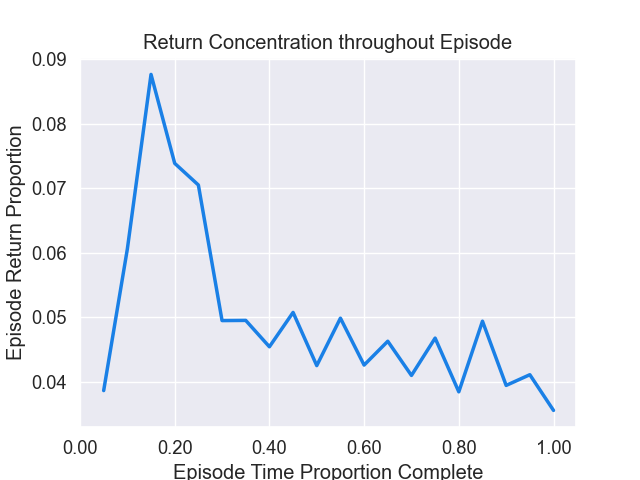
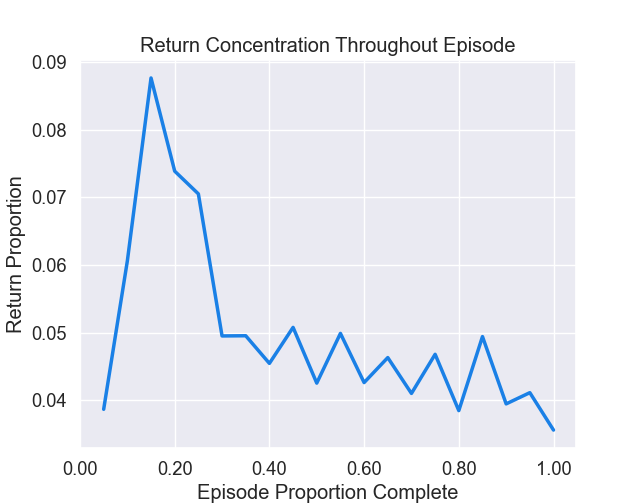
potentially last commit

diff --git a/_posts/2024-05-07-mode-switching.md b/_posts/2024-05-07-mode-switching.md
@@ -53,21 +53,7 @@ toc:
 # Below is an example of injecting additional post-specific styles.
 # This is used in the 'Layouts' section of this post.
 # If you use this post as a template, delete this _styles block.
-_styles: >
-  .fake-img {
-    background: #bbb;
-    border: 1px solid rgba(0, 0, 0, 0.1);
-    box-shadow: 0 0px 4px rgba(0, 0, 0, 0.1);
-    margin-bottom: 12px;
-  }
-  .fake-img p {
-    font-family: monospace;
-    color: white;
-    text-align: left;
-    margin: 12px 0;
-    text-align: center;
-    font-size: 16px;
-  }
+
 ---
 
 ## 1. Introduction
@@ -94,7 +80,7 @@ before going back to bed?
 
 {% include figure.html path="assets/img/2024-05-07-mode-switching/bike.png" class="img-fluid" %}
 <div class="caption">
-    Figure 1. Illustrative difference between monolithic and mode-switching 
+    Figure 1: Illustrative difference between monolithic and mode-switching 
 behavior policies <d-cite key="pislar2021should"></d-cite>.
 </div>
 
@@ -118,8 +104,8 @@ costa2019subcortical, waltz2020differential"></d-cite>, which served as a notabl
 
 This introduction section continues with a brief discussion of topics 
 related to mode-switching behavior policies, ranging from different temporal 
-granularities to previous algorithms that exhibit mode-switching behavior. 
-We emphasize practical understanding rather than attempting to present an 
+granularities to algorithms in the literature that exhibit mode-switching 
+behavior. We emphasize practical understanding rather than attempting to present an 
 exhaustive classification or survey of the subject. Afterwards, we discuss 
 our motivation and rationale for this blog post: the authors of the initial 
 mode-switching study showed that training with mode-switching 
@@ -141,7 +127,8 @@ monolithic policies and the previous exploration literature. Figure 2
 illustrates the high-level, pivotal difference between switching and 
 monolithic policies: at the beginning of each time step, the agent may use 
 all of its available information to determine its behavior mode 
-for the current time step and then output a behavior policy to determine 
+for the current time step and then output a corresponding behavior policy to 
+determine 
 the action. A key distinction is that switching policies can drastically 
 change between time steps since the modes can be tailored to a variety of 
 different purposes (e.g. exploration, exploitation, mastery, novelty). As 
@@ -150,7 +137,8 @@ algorithm that it was not exhaustively characterized in the initial study.
 
 {% include figure.html path="assets/img/2024-05-07-mode-switching/box.png" class="img-fluid" %}
 <div class="caption">
-    Figure 2. Introduction of mode-switching behavior to standard agent-environment RL interaction.
+    Figure 2: Introduction of mode-switching behavior to standard 
+agent-environment RL interaction.
 </div>
 
 A **mode period** is defined as a sequence of time steps in a single mode.
@@ -158,7 +146,8 @@ At the finest granularity, *step-level* periods only last one step in
 length; the primary example is $\epsilon$-greedy exploration because its 
 behavior policy switches between explore and exploit mode at the level of 
 one time step <d-cite key="mnih2015human"></d-cite>. At the other extreme, 
-*experiment-level* periods encompass the entire training duration, possibly to be used in offline RL (ORL) algorithms <d-cite key="kumar2020conservative,dabney2018implicit,janner2021offline"></d-cite>. A finer granularity is *episode-level*, in which a single behavior policy is chosen for one entire episode at a time, such as when diversifying the stochasticity of a policy throughout training <d-cite key="kapturowski2018recurrent"></d-cite>. The switching policies analyzed in this blog post produce *intra-episodic* periods at a granularity between step-level periods and episode-level periods. Intra-episodic periods generally occur at least a few times during an episode and last for more than a few time steps. The practice and study of interpolating between extremes has occured in areas such as $n$-step returns <d-cite key="sutton2018reinforcement"></d-cite> and colored noise <d-cite key="eberhard2022pink"></d-cite> with notable success, making the study of intra-episodic mode periods even more enticing. 
+*experiment-level* periods encompass the entire training duration, possibly 
+to be used in offline RL (ORL) algorithms <d-cite key="kumar2020conservative,dabney2018implicit,janner2021offline"></d-cite>. A finer granularity is *episode-level*, in which a single behavior policy is chosen for one entire episode at a time, such as when diversifying the stochasticity of a policy throughout training <d-cite key="kapturowski2018recurrent"></d-cite>. The switching policies analyzed in this blog post produce *intra-episodic* periods at a granularity between step-level periods and episode-level periods. Intra-episodic periods generally occur at least a few times during an episode and last for more than a few time steps. The practice and study of interpolating between extremes has occurred in areas such as $n$-step returns <d-cite key="sutton2018reinforcement"></d-cite> and colored noise <d-cite key="eberhard2022pink"></d-cite> with notable success, making the study of intra-episodic mode periods even more enticing. 
 
 The question investigated by the initial mode-switching study is *when to 
 switch*. This blog post and the initial study only perform experiments 
@@ -201,7 +190,7 @@ interesting consideration of switching policies. An *informed* trigger
 incorporates aspects of the state, action, and reward signals; it is actuated after crossing a prespecified threshold such as the 
 difference between the expected and realized reward. A *blind* trigger acts 
 independently of these signals; for example, it can be actuated after a 
-certain number of time steps are elapsed or actuated randomly at each time 
+certain number of time steps has elapsed or actuated randomly at each time 
 step with a prespecified probability. A **bandit meta-controller** <d-cite 
 key="schaul2019adapting"></d-cite> may be employed to choose the switching 
 hyperparameters (e.g. termination probability, mode length, informed threshold) at the beginning of each episode to maximize episodic return and prevent additional hyperparameter tuning. Finally, **homeostasis** <d-cite key="turrigiano2004homeostatic"></d-cite> can be added when using trigger thresholds (e.g. for informed triggers), which adapts the switching threshold to a target rate across the course of training, again for ease of hyperparameter tuning. Note that these dimensions are so richly diverse that we end the associated discussion to maintain any notion of brevity, and we summarize these facets of mode-switching in Table 1.
@@ -218,7 +207,8 @@ hyperparameters (e.g. termination probability, mode length, informed threshold) 
 
 
 <div class="caption">
-    Table 1. Various facets of mode-switching policies <d-cite key="pislar2021should"></d-cite>.
+    Table 1: Various facets of mode-switching policies <d-cite 
+key="pislar2021should"></d-cite>.
 </div>
 
 ### Blog Post Motivation
@@ -252,7 +242,7 @@ the differences between switching policies and monolithic policies for the use o
 This section begins with a discussion on the experimental setup before 
 delving into five experiments that highlight observational differences in 
 switching and monolithic behavior policies. The complete details of the 
-agent and environments can be found in the accompanying [(anonymized for peer review) GitHub repository](https://anonymous.4open.science/r/vienna-2852/README.md).
+agent and environments can be found in the accompanying [GitHub repository](https://github.com/LorenJAnderson/when-to-explore).
 - The experimental testbed is comprised of 10 commonly-used <d-cite 
 key="agarwal2022reincarnating"></d-cite>  Atari games: Asterix, Breakout, 
   Space Invaders, Seaquest, Q*Bert, Beam Rider, Enduro, MsPacman, Bowling, 
@@ -284,7 +274,7 @@ topic.
 - The DQN policy was trained using a monolithic policy, and unsurprisingly, 
 monolithic policies had slightly higher evaluation scores. Additional 
   studies may use exploitation actions from a policy trained with switching 
-  policies for comparison. 
+  behavior for comparison. 
 - Many of our experiments aim to evaluate the effect of exploration 
   or exploitation actions on some aspect of agent behavior. Due to delayed 
   gratification in RL, the credit assignment problem <d-cite 
@@ -340,7 +330,9 @@ concentrate terminal states to specific areas of an agent's trajectory.
     </div>
 </div>
 <div class="caption">
-    Figure 3. (Left) Terminal states are more concentrated after switching exploration modes. Figure 4 (Right) Switching policies perform better on cliffwalk environments.
+    Figure 3 (Left): Terminal states are more concentrated after switching 
+exploration periods. Figure 4 (Right): Switching policies perform better on 
+cliffwalk environments.
 </div>
 
 We showcase a quick illustrative example of the ability of switching 
@@ -372,7 +364,7 @@ the safety constraints are closely aligned with terminal states (e.g. aerospace 
 
 ### Early Exploration
 
-Monolithic policies uniformly take exploration action throughout an episode,
+Monolithic policies uniformly take exploration actions throughout an episode,
 and as a result, the exploration steps are less concentrated than those of 
 switching policies. While the expected number of exploration steps may be 
 the same per episode in monolithic policies, certain situations may require 
@@ -390,15 +382,15 @@ to encounter more diverse data <d-cite key="silver2016mastering"></d-cite>. We i
 We perform an experiment to determine how quickly a policy takes a 
 prespecified number of exploration actions. Specifically, we compute the 
 average number of time steps it takes for a policy to take at least $x$ 
-total exploration actions across its top 10 of 100 fastest episodes to 
-achieve the feat, and we repeat this process for $x \in \\{1, 2, 3, \ldots, 
+total exploration actions across its top 10 of 100 fastest episodes, and we repeat this process for $x \in \\{1, 2, 3, \ldots, 
 20\\}$. We compare the top 10 fastest episodes because we are only 
 interested in gauging the flexibility of switching behavior of being able 
 to achieve this specific facet of exploration (beginning exploration) 
 during a small percentage of episodes and not for each episode. Note that 
-this experiment did not need to utilize the Atari signals, so we averaged 
-the results again over each game. The results are shown in Figure 5. It is 
-clear that some episodes contain many more exploration actions concentrated 
+this experiment did not need to utilize the Atari signals, so we only used 
+data from the last epoch. Results were again averaged over each game and 
+shown in Figure 5. It is clear that some episodes contain many more 
+exploration actions concentrated 
 in the beginning few time steps with switching policies. This makes sense 
 intuitively, as only one switch needs to occur early in an episode with a 
 switching policy for many exploration actions to be taken immediately 
@@ -413,8 +405,8 @@ afterwards. The difference increases roughly linearly for greater number of nece
     </div>
 </div>
 <div class="caption">
-    Figure 5. (Left) Switching policies can explore more frequently earlier 
-during the episode. Figure 6 (Right) Switching policies have better 
+    Figure 5 (Left): Switching policies can explore more frequently earlier 
+during the episode. Figure 6 (Right): Switching policies have better 
 exploration near the start state on downwalk environments.
 </div>
 
@@ -423,7 +415,7 @@ agent attempts to first move to the middle column and then down the middle
 column to the white 'x' (Figure 6). The agent starts in the 
 second row in the middle column at the white circle, and visitation 
 frequencies across 1K episodes are shown for all states aside from those 
-starting at the white circle and ending at the white 'x'. We chose to 
+between the white circle and the white 'x', inclusive. We chose to 
 analyze this environment because it is a crude approximation of the trajectory of agents that have learned a single policy and immediately move away from the initial start state at the beginning of an episode. The switching and monolithic policies are the same as before, and switching produces much higher visitation counts at states further from the obvious exploitation trajectory. 
 
 Environments that may benefit from flexible early exploration are sparse 
@@ -477,7 +469,9 @@ lower return while in explore mode.
     </div>
 </div>
 <div class="caption">
-    Figure 7. (Left) Switching policies concentrate return in exploitation mode. Figure 8 (Right) Switching policies concentrate return in the beginning of episodes.
+    Figure 7 (Left): Switching policies concentrate return in exploitation 
+mode. Figure 8 (Right): Switching policies concentrate return in the 
+beginning of episodes.
 </div>
 
 One notable case in which exploitation steps are concentrated together is in 
@@ -528,8 +522,9 @@ greater than that of monolithic policies. Like most of the previous results, thi
     </div>
 </div>
 <div class="caption">
-    Figure 9. (Left) Switching policies produce action distributions 
-with higher entropy after exploration periods. Figure 10 (Right) Agent has random exploitation actions in states that are visited less frequently.
+    Figure 9 (Left): Switching policies produce action distributions 
+with higher entropy after exploration periods. Figure 10 (Right): Agent has 
+random exploitation actions in states that are visited less frequently.
 </div>
 
 To illustrate this idea, we create a gridworld environment that provides 
@@ -537,16 +532,15 @@ the agent a reward of -1 for each time step that the agent is still on the
 grid; the agent's goal is to leave the grid as quickly as possible. The 
 agent begins in the center of the grid and learns through discrete 
 Q-learning. Distinct actions have separate colors in Figure 10, with arrows 
-showing the greedy action. The agent learns that it is fastest to exit the 
+showing the exploit action. The agent learns that it is fastest to exit the 
 grid by going left or right. Notably, the actions near the top and bottom 
-of the grid are seemingly random, as the agent has not seen and learned 
-those states as frequently as the others. Switching 
+of the grid are seemingly random, as the agent has not seen and learned from those states as frequently as the others. Switching 
 policies are more likely to reach the top and bottom areas of the gridworld 
 state space and consequently would be more likely to have a higher entropy 
 of the action distribution after exploration.
 
 The difference in the entropy of the action distributions suggests that 
-more diverse areas of the state space are encountered after exploration 
+more diverse areas of the state space may be encountered after exploration 
 modes with switching policies. This phenomenon is closely tied to the 
 notion of *detachment* <d-cite key="ecoffet2019go"></d-cite>, whereby 
 agents forget how to return or are *detached* from areas of high reward, 
@@ -560,18 +554,18 @@ mode is very low, there may be some episodes where the switch seldom happens
 if at all. This creates a distribution of exploitation action proportions 
 per episode that is more extreme than that of monolithic policies, yet it 
 is still not as extreme as using a single mode throughout the entire 
-episode. Investigations of methods with having similar interpolative 
+episode. Investigations of methods having similar interpolative 
 characteristics have been conducted recently; for example, an action noise 
 called pink noise <d-cite key="eberhard2022pink"></d-cite> was recently 
 introduced that achieved better performance than white and red noise. Pink 
 noise is more temporally-correlated than white noise but not as much as red noise. Here, we investigate the return of the most extreme episodes in exploitation proportion.
 
-We perform an experiment to compare the the return of the episodes with 
+We perform an experiment to compare the return of the episodes with 
 highest exploitation proportions between switching and monolithic policies. 
-The proportions of  top 10 of 100 episodes of each epoch and game 
-were averaged for each mode. Then, a ratio between the averages of switching 
-and monolithic policies was computed for epoch and game and then averaged 
-across games. The results are plotted in Figure 11. 
+The returns of the top 10 of 100 episodes ranked by exploitation proportion 
+of each epoch and game were averaged. Then, a ratio between the averages of 
+switching and monolithic policies was computed and averaged across games. The 
+results are plotted in Figure 11. 
 There does not appear to be a clear trend aside from the ratio hovering mostly above 1.00, indicating that the top exploitation episodes of switching policies accrue more return than those of monolithic policies. 
 
 <div class="row mt-3">
@@ -583,13 +577,15 @@ There does not appear to be a clear trend aside from the ratio hovering mostly a
     </div>
 </div>
 <div class="caption">
-    Figure 11. (Left) Switching policies have better return for episodes with largest exploit proportion. Figure 12 (Right) Switching policies have more extreme exploration and exploitation proportions per episode.
+    Figure 11 (Left): Switching policies have higher return for episodes 
+with largest exploit proportion. Figure 12 (Right): Switching policies have 
+more extreme exploration and exploitation proportions per episode.
 </div>
 
 The results are best illustrated through plotting the switching and 
-monolithic exploitation percentages for 1K episodes (10 games of the last 
+monolithic exploitation proportions for 1K episodes (10 games of the last 
 epoch) as shown in Figure 12.  The top 100 episodes with highest 
-exploitation proportion take more exploitation actions than *any* monolithic 
+exploitation proportion take more exploitation actions than any monolithic 
 episode. Therefore, the corresponding distribution is indeed more 
 extreme.
 
@@ -597,7 +593,7 @@ While the previous discussion has illustrated that some switching episodes
 exploit more and generate more return, they don't specifically explain why 
 training with mode-switching is superior; in particular, the slightly 
 greater return is not necessary for learning an optimal policy as long as a 
-similar state distribution is reached by a suboptimal policy. One 
+similar state distribution is reached during training. One 
 possibility is the fact that mode-switching policies train on a more 
 diverse set of behavior and must generalize to that diversity. 
 Reinforcement learning algorithms are notorious at overfitting <d-cite 
